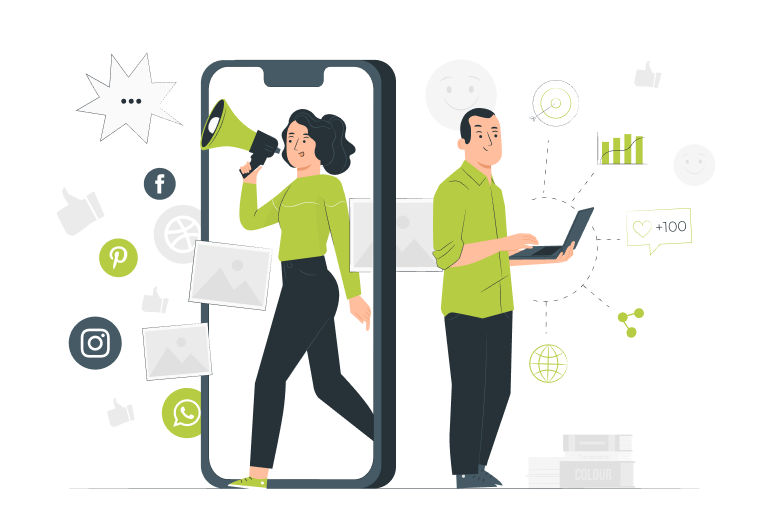
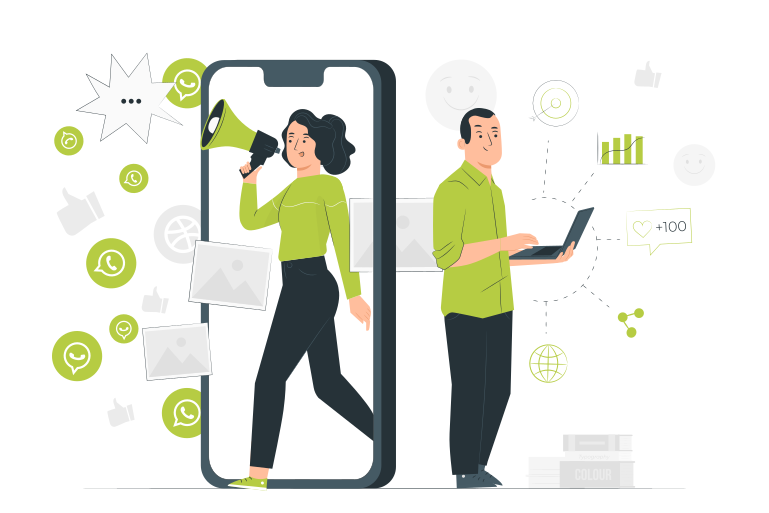
up

diff --git a/consortium/scripts/landing-calc.js b/consortium/scripts/landing-calc.js
@@ -9,28 +9,35 @@ function validate(evt) {
     }
 }
 
+let messages = document.querySelector(".messages"),
+    ctr = document.querySelector(".ctr"),
+    convers = document.querySelector(".convers"),
+    msprice = 2,
+    fullprice = document.querySelector(".price-click"),
+    isBD = document.querySelector("#checkbox1"),
+    isAD = document.querySelector("#checkbox2"),
+    request = document.querySelector(".request"),
+    requestPrice = document.querySelector(".request-price"),
+    messagesMobile = document.querySelector(".messages-mobile")
 function calc() {
-    messages = document.querySelector("#messages")
-    ctr = document.querySelector(".ctr")
-    convers = document.querySelector(".convers")
-    msprice = document.querySelector(".price-click")
-    isBD = document.querySelector("#checkbox1")
-    isAD = document.querySelector("#checkbox2")
-    request = document.querySelector(".request")
-    requestPrice = document.querySelector(".request-price")
+    messagesMobile.innerHTML = messages.value
     // isAD.checked
     if (isBD.checked && !isAD.checked) {
-        msprice.value = 3
+        msprice = 3
     }
     if (isAD.checked && !isBD.checked) {
-        msprice.value = 2.5
+        msprice = 2.5
     }
     if (isBD.checked && isAD.checked) {
-        msprice.value = 3.5
+        msprice = 3.5
+    }
+    if (!isBD.checked && !isAD.checked) {
+        msprice = 2
     }
 
     request.innerHTML = Math.round(Number("0." + String(ctr.value)) * Number("0." + String(convers.value)) * messages.value)
-    requestPrice.innerHTML = Math.round((messages.value * msprice.value) / request.innerHTML)
+    fullprice.value = (messages.value * msprice)
+    requestPrice.innerHTML = Math.round(fullprice.value / Number(request.innerHTML))
 }
 
 
@@ -41,11 +48,9 @@ let calcInputs = document.querySelectorAll(".js-calc input").forEach(i => {
     i.oninput = function () {
         if (i.classList.contains("messages")) {
             syncRange.value = syncMessages.value / 1000
-            console.log("12344");
         }
         if (i.classList.contains("messages_range")) {
             syncMessages.value = syncRange.value * 1000
-            console.log("12344");
         }
         calc()
 

diff --git a/consortium/css/media.css b/consortium/css/media.css
@@ -903,7 +903,40 @@
   .cooperationtem__list__item:first-child {
     width: auto;
   }
-  .calc-form .input input {
+  .messages-mobile-section {
+    display: block;
+  }
+  .value.dark {
+    width: 108px;
+    height: 43px;
+  }
+  .group-cols {
+    padding: 0 10px;
+  }
+  .value {
+    margin-top: 3px;
+  }
+  .top-side {
+    flex-direction: column-reverse;
+    margin-top: 13px;
+  }
+  .calc-inputs {
+    flex-direction: column;
+  }
+  .top-side .checkbox-field {
+    height: auto;
+    margin: 0;
+    margin-bottom: 15px;
+  }
+  .calc-form .input input,
+  .calc-form .input {
+    width: 110px;
+    height: 43px;
+  }
+  .input-block {
+    display: none;
+  }
+  /* .calc-form .input input {
     width: 140px;
   }
   .group-col {
@@ -911,7 +944,7 @@
   }
   .calc-form {
     margin-bottom: 180px;
-  }
+  } */
   .table-mobile-name {
     font-size: 20px;
     top: 16px;
@@ -935,14 +968,14 @@
   .body__top img {
     max-width: 120px;
   }
-  .group-row:not(.center) {
+  /* .group-row:not(.center) {
     flex-direction: column;
   }
   .group-cols:not(.text-center) {
     flex-direction: row;
-  }
+  } */
 }
-@media screen and (max-width: 390px) {
+@media screen and (max-width: 394px) {
   .usp__list {
     font-size: 14px;
     margin-top: 20px;
@@ -1009,14 +1042,19 @@
   .group-cols {
     padding: 0 15px;
   }
-  .calc-form .input input {
-    width: 110px;
+  .calc-form .input input,
+  .calc-form .input {
+    width: 95px;
+  }
+  .calc-form .label {
+    height: 30px;
   }
   .group-col {
-    width: 120px;
+    width: 95px;
   }
   .value.dark {
-    width: 110px;
+    width: 95px;
+    margin-top: 10px;
   }
   .main__btn {
     width: 100%;

diff --git a/consortium/index.html b/consortium/index.html
@@ -64,7 +64,7 @@
     <section class="main">
       <div class="main__text">
         <h1 class="main__title section-title">
-          Привлекаем клиентов с рассылки
+          Привлекаем клиентов из
           <span class="accent-color">WhatsApp</span>
         </h1>
 
@@ -355,7 +355,7 @@
                 </div>
                 <div class="group-row">
                   <div class="group-col">
-                    <div class="label">Цена за сообщение:</div>
+                    <div class="label">Стоимость рассылки:</div>
                     <div class="field">
                       <div class="input">
                         <input
@@ -400,6 +400,12 @@
             <div class="group-bootom">
               <div class="group-cols text-center">
                 <div class="group-row center">
+                  <div class="group-col full messages-mobile-section">
+                    <div class="label">Кол-во сообщений:</div>
+                    <div class="field">
+                      <div class="value dark messages-mobile">2000</div>
+                    </div>
+                  </div>
                   <div class="group-col full">
                     <div class="label">Количество заявок:</div>
                     <div class="field">

diff --git a/consortium/css/style.css b/consortium/css/style.css
@@ -279,14 +279,15 @@ header {
 section.main {
   display: flex;
   justify-content: space-between;
-  margin-top: 130px;
+  margin-top: 80px;
   align-items: center;
 }
 .main__title {
   font-size: 46px;
   line-height: 135.4%;
-  width: 785px;
-  margin-bottom: 5px;
+  width: 560px;
+  margin: 0;
+  margin-bottom: 15px;
 }
 
 .usp__list {
@@ -331,6 +332,8 @@ section.main {
   transform: scale(1.07);
   position: relative;
   left: 70px;
+  max-width: 769px;
+  max-height: 513px;
 }
 
 /* -------  Секция Сотрудничества ------- */
@@ -687,7 +690,7 @@ section.partner_results {
   margin-top: 10px;
 }
 .input-block input {
-  width: 90px;
+  width: 100px;
   margin: 0;
 }
 
@@ -769,6 +772,9 @@ input[type="range"]::-moz-range-thumb {
 }
 .group-bootom .group-cols {
   justify-content: space-around;
+}
+.messages-mobile-section {
+  display: none;
 }
 .value.dark {
   width: 134px;
